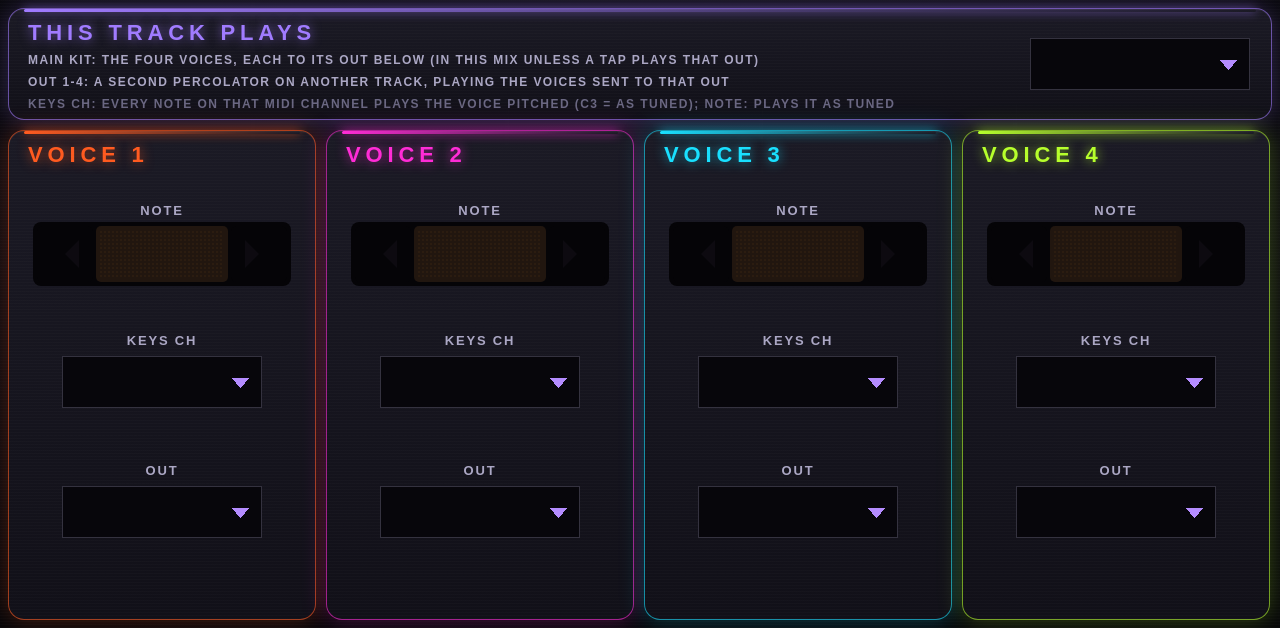
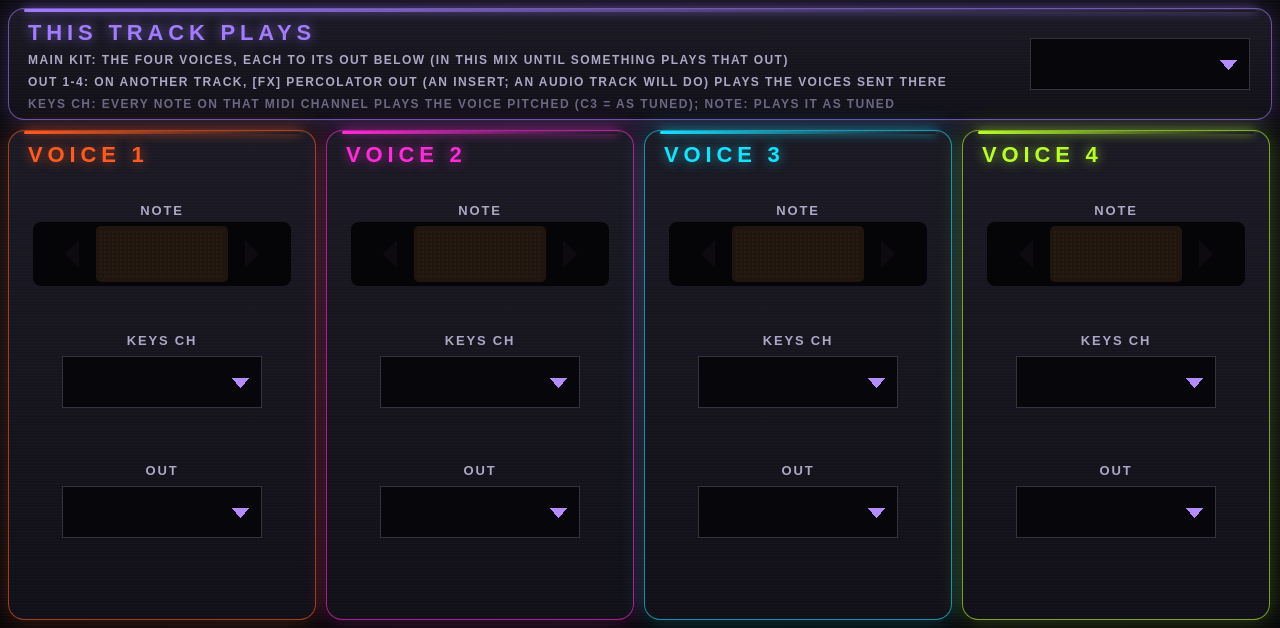
Percolator: the MIDI & OUT page points to [FX] Percolator OUT; an OUT's level exactly the mix's
TAP_GAIN = Percolator's mix gain x VOLUME at 71 exactly (0.554 was 9 LSB off on loud hits).

Changed region(s): [[0.0625, 0.0908, 0.75, 0.1513]]

diff --git a/mpc/gen.py b/mpc/gen.py
@@ -369,9 +369,9 @@ def layout():
     L.append("[tab MIDI & OUT]")
     L.append("art file=images/skin/bg_io.png x=0 y=86 w=1280 h=628")
     html = h_panel(8, 94, 1264, 112, COL["mst"], "THIS TRACK PLAYS")
-    html += h_text(28, 140, "MAIN KIT: THE FOUR VOICES, EACH TO ITS OUT BELOW (IN THIS MIX UNLESS A TAP PLAYS THAT OUT)",
+    html += h_text(28, 140, "MAIN KIT: THE FOUR VOICES, EACH TO ITS OUT BELOW (IN THIS MIX UNTIL SOMETHING PLAYS THAT OUT)",
                    "#aba7c4", 12, .12, 600)
-    html += h_text(28, 162, "OUT 1-4: A SECOND PERCOLATOR ON ANOTHER TRACK, PLAYING THE VOICES SENT TO THAT OUT",
+    html += h_text(28, 162, "OUT 1-4: ON ANOTHER TRACK, [FX] PERCOLATOR OUT (AN INSERT; AN AUDIO TRACK WILL DO) PLAYS THE VOICES SENT THERE",
                    "#aba7c4", 12, .12, 600)
     html += h_text(28, 184, "KEYS CH: EVERY NOTE ON THAT MIDI CHANNEL PLAYS THE VOICE PITCHED (C3 = AS TUNED); NOTE: PLAYS IT AS TUNED",
                    "#6a6782", 12, .12, 600)

diff --git a/src/tapbus.h b/src/tapbus.h
@@ -36,7 +36,7 @@
 #define TAP_OUTS 4
 #define TAP_N 4096   /* frames per OUT ring (32 blocks of 128) */
 #define TAP_ALIVE (16u * 128u)   /* frames a reader's last look counts for */
-#define TAP_GAIN 0.554f          /* a voice into a reader's output: Percolator's mix gain x VOLUME at 71 */
+#define TAP_GAIN (0.55f * 2.0f * 0.71f * 0.71f)   /* a voice into a reader's output: Percolator's mix gain x VOLUME at 71 */
 
 typedef struct {
     uint32_t magic, version, size;
